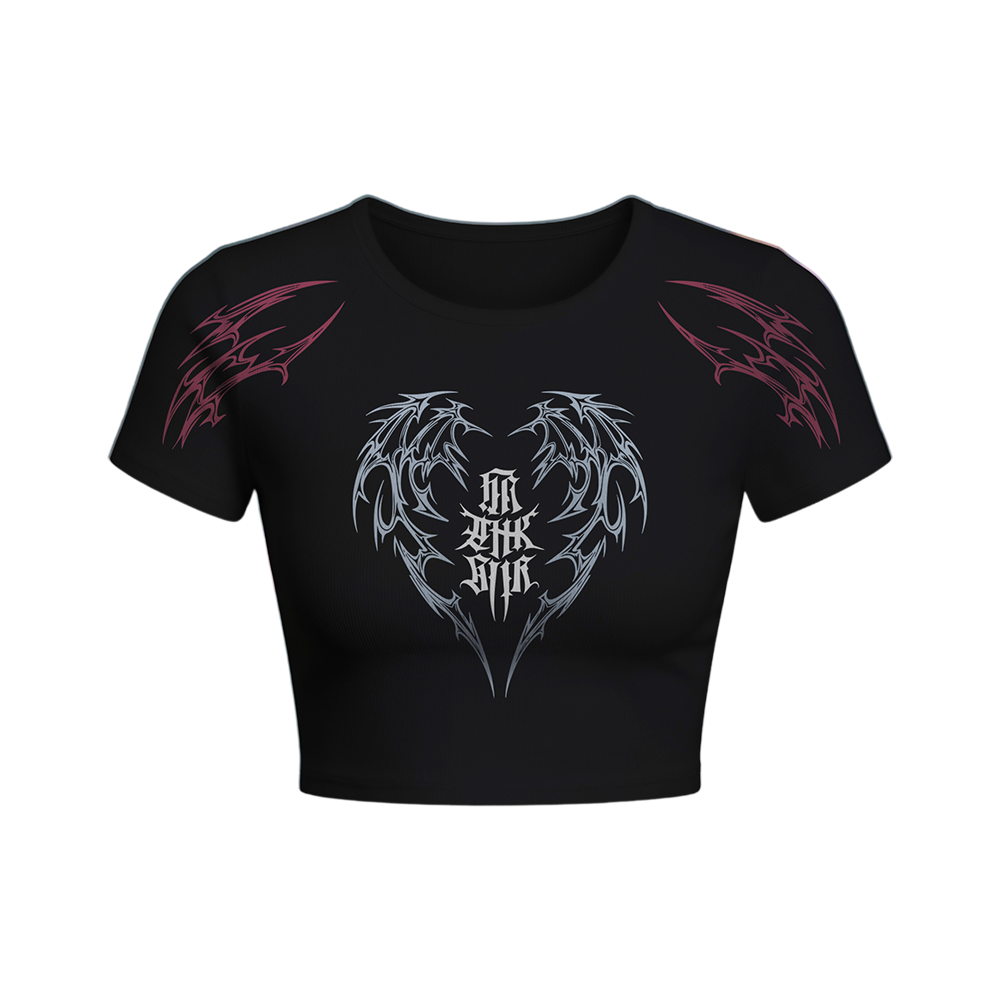
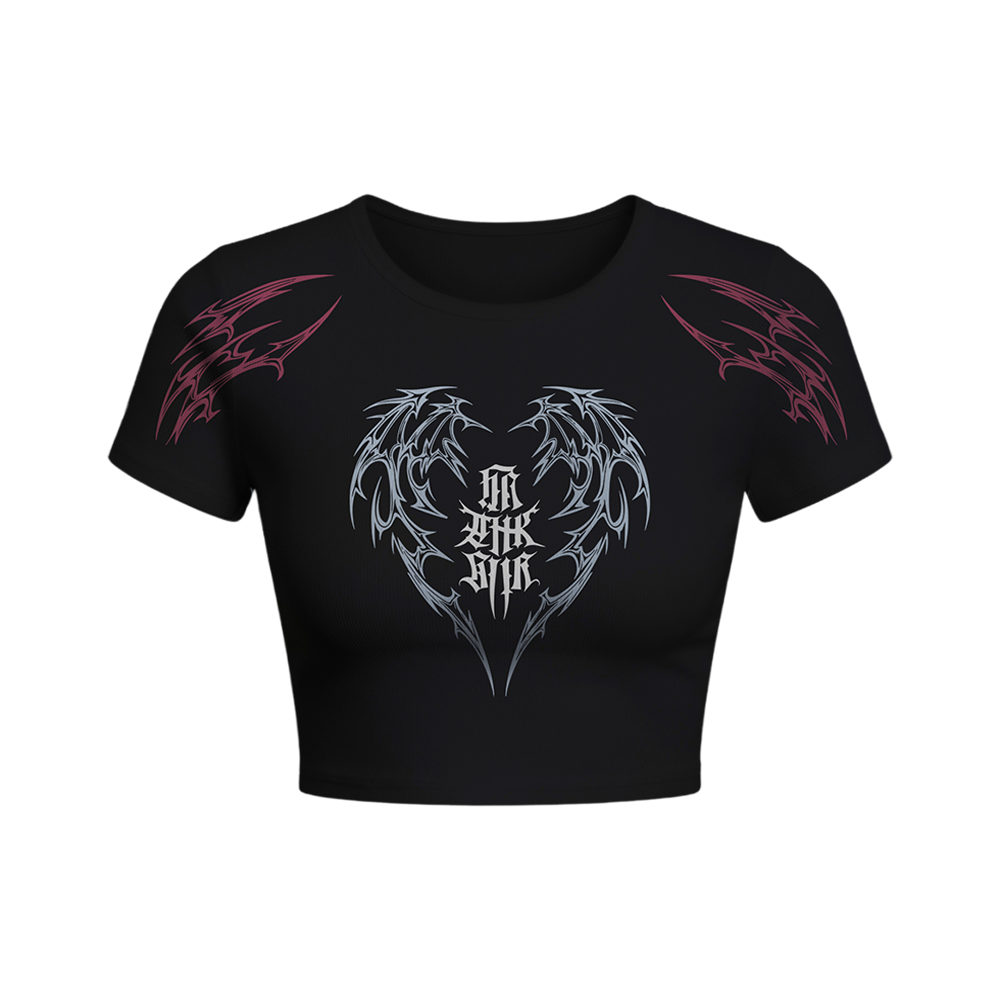
feat: Add new global CSS with custom fonts, update video item display, and include a new image asset.

diff --git a/work-detailvideowork.html b/work-detailvideowork.html
@@ -167,6 +167,48 @@
                         </div>
                     </article>
 
+                    <!-- VID 7 -->
+                    <article class="video-item">
+                        <div class="video-thumbnail">
+                            <video id="video7" preload="none" poster="assets/img/thumbnail/vid 7.png"
+                                data-src="assets/VIDEO EDITING/vid 7.mp4" playsinline webkit-playsinline>
+                                Your browser does not support the video tag.
+                            </video>
+                            <button class="play-btn" type="button" aria-label="Play video"><svg viewBox="0 0 24 24"
+                                    fill="currentColor" width="24" height="24">
+                                    <polygon points="5,3 19,12 5,21" />
+                                </svg></button>
+                        </div>
+                        <div class="video-caption">
+                            <h3>2D Animatic Music Video — “Vardaan”</h3>
+                            <p>2D animatic storytelling project inspired by the Hindi rap track “Vardaan.” Focused on
+                                visual narrative, scene composition and mood-based pacing to interpret the emotion of
+                                the song. Viewed by the original artist and shared on Instagram story by Wily Frenzy.
+                                The reel was also liked by the management (Deepak Char).</p>
+                        </div>
+                    </article>
+
+                    <!-- VID 8 -->
+                    <article class="video-item">
+                        <div class="video-thumbnail">
+                            <video id="video8" preload="none" poster="assets/img/thumbnail/vid 8.png"
+                                data-src="assets/VIDEO EDITING/vid 8.mp4" playsinline webkit-playsinline>
+                                Your browser does not support the video tag.
+                            </video>
+                            <button class="play-btn" type="button" aria-label="Play video"><svg viewBox="0 0 24 24"
+                                    fill="currentColor" width="24" height="24">
+                                    <polygon points="5,3 19,12 5,21" />
+                                </svg></button>
+                        </div>
+                        <div class="video-caption">
+                            <h3>Motion Poster — “Devara: Part 1”</h3>
+                            <p>Concept motion poster created using 3D elements and layered compositions in After
+                                Effects. All scenes were designed and animated inside After Effects, with final
+                                assembly, timing and audio synchronization completed in Premiere Pro. The project
+                                emphasizes cinematic lighting, typography animation and theatrical atmosphere.</p>
+                        </div>
+                    </article>
+
                     <!-- VID 1 -->
                     <article class="video-item">
                         <div class="video-thumbnail">
@@ -219,48 +261,6 @@
                             <h3>Cinematic VFX Reel Project</h3>
                             <p>A Professional cinematic edit featuring color grading, VFX, slow motion and dramatic
                                 typography. Optimized for social media.</p>
-                        </div>
-                    </article>
-
-                    <!-- VID 7 -->
-                    <article class="video-item">
-                        <div class="video-thumbnail">
-                            <video id="video7" preload="none" poster="assets/img/thumbnail/vid 7.png"
-                                data-src="assets/VIDEO EDITING/vid 7.mp4" playsinline webkit-playsinline>
-                                Your browser does not support the video tag.
-                            </video>
-                            <button class="play-btn" type="button" aria-label="Play video"><svg viewBox="0 0 24 24"
-                                    fill="currentColor" width="24" height="24">
-                                    <polygon points="5,3 19,12 5,21" />
-                                </svg></button>
-                        </div>
-                        <div class="video-caption">
-                            <h3>2D Animatic Music Video — “Vardaan”</h3>
-                            <p>2D animatic storytelling project inspired by the Hindi rap track “Vardaan.” Focused on
-                                visual narrative, scene composition and mood-based pacing to interpret the emotion of
-                                the song. Viewed by the original artist and shared on Instagram story by Wily Frenzy.
-                                The reel was also liked by the management (Deepak Char).</p>
-                        </div>
-                    </article>
-
-                    <!-- VID 8 -->
-                    <article class="video-item">
-                        <div class="video-thumbnail">
-                            <video id="video8" preload="none" poster="assets/img/thumbnail/vid 8.png"
-                                data-src="assets/VIDEO EDITING/vid 8.mp4" playsinline webkit-playsinline>
-                                Your browser does not support the video tag.
-                            </video>
-                            <button class="play-btn" type="button" aria-label="Play video"><svg viewBox="0 0 24 24"
-                                    fill="currentColor" width="24" height="24">
-                                    <polygon points="5,3 19,12 5,21" />
-                                </svg></button>
-                        </div>
-                        <div class="video-caption">
-                            <h3>Motion Poster — “Devara: Part 1”</h3>
-                            <p>Concept motion poster created using 3D elements and layered compositions in After
-                                Effects. All scenes were designed and animated inside After Effects, with final
-                                assembly, timing and audio synchronization completed in Premiere Pro. The project
-                                emphasizes cinematic lighting, typography animation and theatrical atmosphere.</p>
                         </div>
                     </article>
 
@@ -318,7 +318,7 @@
                 <!-- Portrait Videos Grid -->
                 <div class="video-grid">
                     <!-- VID 3 -->
-                    <article class="video-item">
+                    <!-- <article class="video-item">
                         <div class="video-thumbnail">
                             <video id="video3" preload="none" poster="assets/img/thumbnail/vid 3.png"
                                 data-src="assets/VIDEO EDITING/vid 3 (2).mp4" playsinline webkit-playsinline>
@@ -333,7 +333,7 @@
                             <h3>FREELANCING Project</h3>
                             <p>Wedding Invitation Card Animation Design by HEIF, Blender by Aatif</p>
                         </div>
-                    </article>
+                    </article> -->
 
                     <!-- VID 11 -->
                     <article class="video-item">

diff --git a/assets/css/css.css b/assets/css/css.css
@@ -265,6 +265,7 @@ h1:not(.hero h1, #profile-heading) {
     transition: all .4s cubic-bezier(.175, .885, .32, 1.275);
     position: relative;
     overflow: hidden;
+    max-width: fit-content !important;
 
     img,
     svg {
@@ -292,6 +293,7 @@ h1:not(.hero h1, #profile-heading) {
 }
 
 .role-badge:hover {
+    max-width: fit-content !important;
     background: rgba(30, 194, 77, .15);
     transform: translateY(-5px) scale(1.05);
     box-shadow: 0 15px 40px rgba(30, 194, 77, .3);
@@ -573,9 +575,9 @@ header nav ul li a:hover::after {
     position: relative;
     z-index: 10;
 
-    @media (width<768px) {
+    /* @media (width<768px) {
         margin-top: 3rem;
-    }
+    } */
 }
 
 .hero h1 {
@@ -962,9 +964,8 @@ body {
 
 .page-title__title {
     font-family: var(--font-heading);
-    font-size: clamp(2.5rem, 8vw, 60px);
-    margin-bottom: 40px;
-    margin-top: 110px;
+    font-size: clamp(2.1rem, 8vw, 60px);
+    margin-block: 40px;
     text-transform: uppercase;
     font-weight: normal;
     line-height: 1;
@@ -1200,7 +1201,7 @@ body {
 
 .hero p {
     font-size: 1.5em;
-    margin: 20px 0;
+    margin: 10px 0;
 
     @media (width<786px) {
         font-size: clamp(12px, 2vw, 15px);
@@ -1470,7 +1471,6 @@ body {
 .footer-rights p {
     /* transition: color .3s ease; */
     color: #555
-
 }
 
 /* .footer-rights:hover p {
@@ -1647,7 +1647,7 @@ header nav ul li a:hover {
 
 @media (max-width:768px) {
     header {
-        position: fixed;
+        /* position: fixed; */
         background: hsla(0, 0%, 4%, 0.9);
         /* Darker background on mobile for better visibility when scrolling */
     }
@@ -2560,6 +2560,17 @@ footer.footer {
     align-items: center;
     gap: 8px;
     padding: 1rem 0 0;
+
+    &:hover {
+        text-decoration: underline;
+
+        .yt-icon {
+            fill: rgb(194 30 30);
+            filter: drop-shadow(0 0 10px rgba(194, 30, 30, 0.5));
+            transition: all 0.4s ease-in-out;
+            text-decoration: underline; 
+        }
+    }
 }
 
 .yt-icon {
